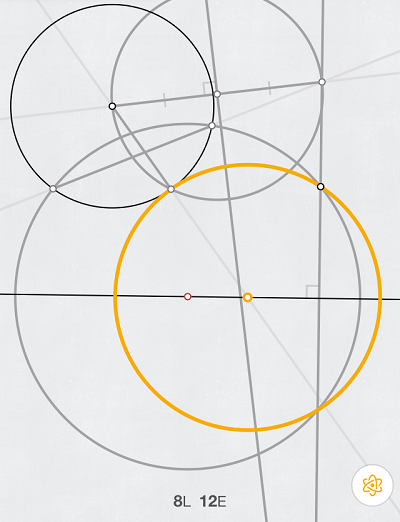
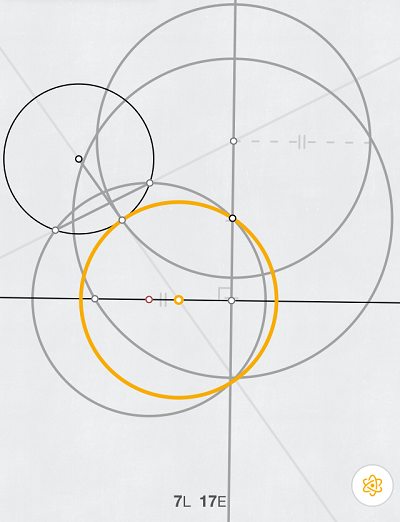
Update solutions for 12.1 8E and 13.9 7L, add links to README.md

diff --git a/v1/Euclidea3.md b/v1/Euclidea3.md
@@ -476,7 +476,7 @@
 
 - 12.1 切于一直线和一圆的圆 *4L 9E 2V* ⭐  
 解：[4L，利用定半径圆和中垂线工具。](solving/d12.1.1.png)  
-解：[9E，利用反向位似。](solving/d12.1.2.png)  
+解：[8E，利用两圆的根轴从而巧妙的作出切点。](solving/d12.1.2.png)  
 注：[2V，如图，作出全部两个解得到隐藏星星。](solving/d12.1.3.png)  
 
 - 12.2 等边三角形 - 2 *7L 8E 2V* ⭐  
@@ -536,7 +536,7 @@
 解：[9L9E，第一步：按图画三个圆。](solving/d13.8.1.png)[第二步：按图添加一个圆。](solving/d13.8.2.png)[第三步：按图添加对称的两个圆。](solving/d13.8.3.png)[第四步，按图添加一个圆。](solving/d13.8.4.png)[第五步，按图添加一个圆。](solving/d13.8.5.png)[最后按图添加一个圆后，找到交点即可。](solving/d13.8.6.png)  
 
 - 13.9 圆心在一直线上的圆 *8L 9E 2V* ⭐  
-解：[8L，巧妙的构造，思路待更新。](solving/d13.9.1.png)  
+解：[7L，巧妙的构造，思路待更新。](solving/d13.9.1.png)  
 解：[9E，巧妙的构造，思路待更新。](solving/d13.9.2.png)  
 注：[2V，如图，作出全部两个解得到隐藏星星。](solving/d13.9.3.png)  
 

diff --git a/13.Nu.md b/13.Nu.md
@@ -49,8 +49,8 @@
 
 ##### 13.9 Circle with Center on Line *目标：8L 9E 2V*
 - [查看题目](images/level/circle-tangent-c-pw-center-l.png) 
-+ *8L*步骤：圆，线，垂线，线，垂分，圆，线，圆
-- *8L*解题思路：【待补充】。[参考图](solved/13.9.8L.png)
++ *7L*步骤：垂线，圆，线，定圆，定圆，线，圆
+- *7L*解题思路：【待补充】。[参考图](solved/13.9.7L.png)
 + *9E*步骤：圆，线，圆，线，圆，线，圆，圆，线，圆
 - *9E*解题思路：【待补充】。[参考图](solved/13.9.9E.png)
 - *2V*解题思路：【待补充】。[参考图](solved/13.9.2V.png)

diff --git a/README.md b/README.md
@@ -3,7 +3,11 @@
 本Repo页面维护团队：  
 - [@Tairraos](https://github.com/tairraos)  
 - [@gsdevcn](https://github.com/gsdevcn)  
-- [@negiizhao](https://github.com/negiizhao)  
+- [@negiizhao](https://github.com/negiizhao) 
+
+[美化版本链接(解答更新中)](https://mathsfans.github.io/Euclidea/) 
+
+[v1版本链接(全最优解更新完成)](https://mathsfans.github.io/Euclidea/v1/) 
   
 本Repo Q群：527621502，欢迎通过github提交issue，也欢迎加群讨论，共同进步。  
 请访问网页版: http://mathsfans.github.io/Euclidea/

diff --git a/12.Mu.md b/12.Mu.md
@@ -2,8 +2,8 @@
 - [查看题目](images/level/circle-tangent-c-l.png) 
 + *4L*步骤：垂线，定圆，垂分，圆
 - *4L*解题思路：【待补充】。[参考图](solved/12.1.4L.png)
-+ *9E*步骤：垂线，线，线，垂线，圆
-- *9E*解题思路：【待补充】。[参考图](solved/12.1.9E.png)
++ *8E*步骤：垂线，圆，线，圆，线，圆
+- *8E*解题思路：【待补充】。[参考图](solved/12.1.8E.png)
 - *2V*解题思路：【待补充】。[参考图](solved/12.1.2V.png)
 
 
